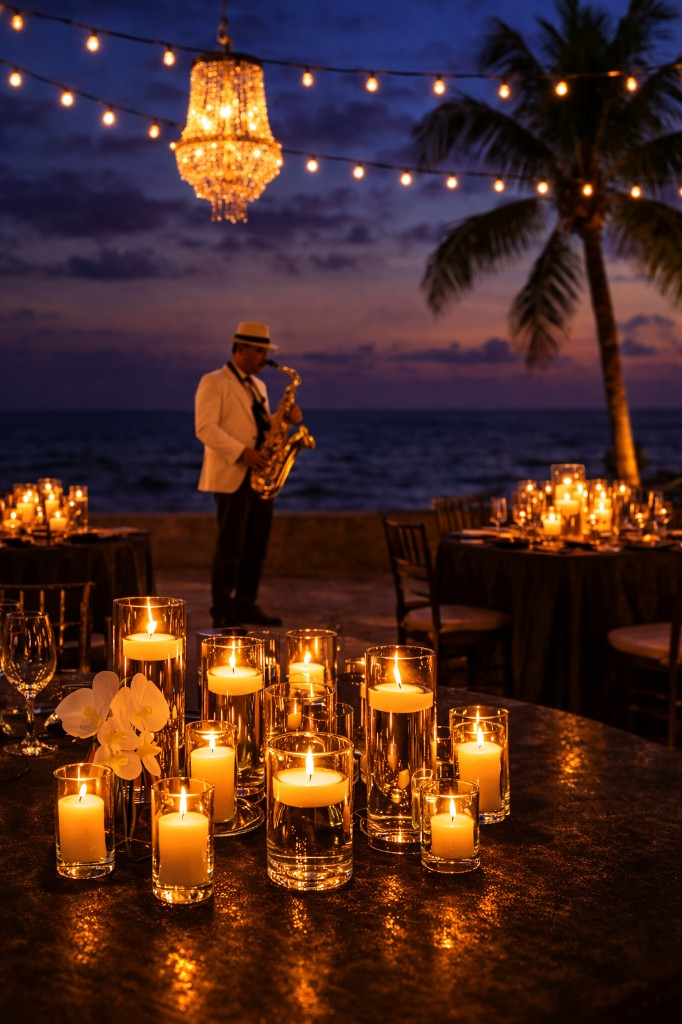
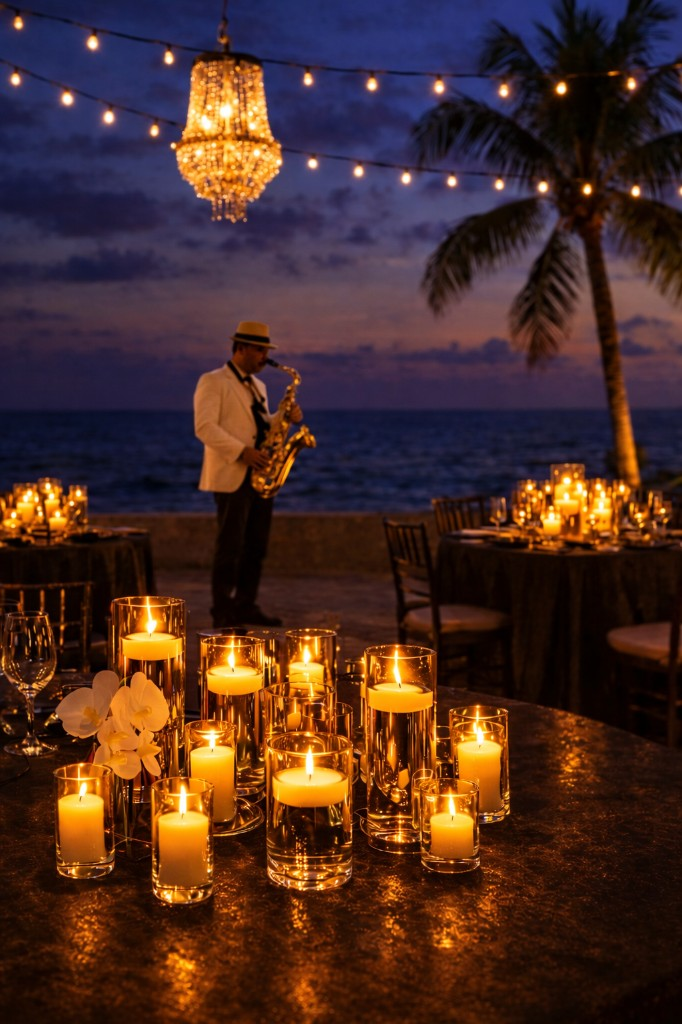
RSVP: Filet Mignon and Grilled Seabass only; UI tweaks; fix SectionDivider menu button types
Made-with: Cursor

diff --git a/packages/frontend/src/sections/RSVPSection.tsx b/packages/frontend/src/sections/RSVPSection.tsx
@@ -23,6 +23,14 @@ const MAX_GUESTS_PARTY = 4
 const TOAST_DURATION_MS = 10_000
 const INPUT_PADDING_LEFT = 2
 
+const RSVP_MEAL_OPTIONS = ['Filet Mignon', 'Grilled Seabass'] as const satisfies readonly RsvpMealChoice[]
+
+const DEFAULT_MEAL_CHOICE: RsvpMealChoice = 'Filet Mignon'
+
+function normalizeMealChoice(raw: string): RsvpMealChoice {
+  return (RSVP_MEAL_OPTIONS as readonly string[]).includes(raw) ? (raw as RsvpMealChoice) : DEFAULT_MEAL_CHOICE
+}
+
 interface RsvpFormData {
   email: string
   phone: string
@@ -41,7 +49,7 @@ const RSVPSection = () => {
     address: '',
     message: '',
     attending: true,
-    mealChoices: ['Fish'],
+    mealChoices: [DEFAULT_MEAL_CHOICE],
   })
   const [storedRsvp, setStoredRsvp] = useState<RsvpResponse | null>(null)
   const [editing, setEditing] = useState(false)
@@ -66,8 +74,10 @@ const RSVPSection = () => {
     const names = rsvp.guestNames?.length ? rsvp.guestNames : rsvp.guests?.map((g) => g.name) ?? ['']
     setGuestNames(names.length ? names : [''])
     const choices =
-      rsvp.guests?.map((g) => g.mealChoice) ??
-      (rsvp.guestNames?.length ? rsvp.guestNames.map(() => 'Fish' as RsvpMealChoice) : ['Fish'])
+      rsvp.guests?.map((g) => normalizeMealChoice(g.mealChoice)) ??
+      (rsvp.guestNames?.length
+        ? rsvp.guestNames.map(() => DEFAULT_MEAL_CHOICE)
+        : [DEFAULT_MEAL_CHOICE])
     setFormData({
       email: rsvp.email,
       phone: rsvp.phone ?? '',
@@ -96,7 +106,7 @@ const RSVPSection = () => {
       if (n > choices.length) {
         return {
           ...prev,
-          mealChoices: [...choices, ...Array(n - choices.length).fill('Fish')] as RsvpMealChoice[],
+          mealChoices: [...choices, ...Array(n - choices.length).fill(DEFAULT_MEAL_CHOICE)],
         }
       }
       return { ...prev, mealChoices: choices.slice(0, n) }
@@ -131,7 +141,7 @@ const RSVPSection = () => {
     }
     const mealChoices = formData.mealChoices.slice(0, numGuests)
     while (mealChoices.length < numGuests) {
-      mealChoices.push('Fish')
+      mealChoices.push(DEFAULT_MEAL_CHOICE)
     }
     const payload = {
       name: names[0],
@@ -235,7 +245,9 @@ const RSVPSection = () => {
             Meal Choices
           </Text>
           <Text color="gray.100">
-            {(rsvp.guests ?? rsvp.guestNames?.map((name) => ({ name, mealChoice: 'Fish' })) ?? [])
+            {(rsvp.guests ??
+              rsvp.guestNames?.map((name) => ({ name, mealChoice: DEFAULT_MEAL_CHOICE })) ??
+              [])
               .map((g) => `${g.name}: ${g.mealChoice}`)
               .join(', ')}
           </Text>
@@ -378,7 +390,7 @@ const RSVPSection = () => {
                           </Field.Label>
                           <NativeSelect.Root size="lg">
                             <NativeSelect.Field
-                              value={formData.mealChoices[index] ?? 'Fish'}
+                              value={formData.mealChoices[index] ?? DEFAULT_MEAL_CHOICE}
                               onChange={(e) =>
                                 setMealChoice(index, e.target.value as RsvpMealChoice)
                               }
@@ -391,9 +403,15 @@ const RSVPSection = () => {
                                 shadow: 'sm',
                               }}
                             >
-                              <option value="Fish" style={{ backgroundColor: '#1F1F1F', color: '#fff' }}>Fish</option>
-                              <option value="Chicken" style={{ backgroundColor: '#1F1F1F', color: '#fff' }}>Chicken</option>
-                              <option value="Steak" style={{ backgroundColor: '#1F1F1F', color: '#fff' }}>Steak</option>
+                              {RSVP_MEAL_OPTIONS.map((option) => (
+                                <option
+                                  key={option}
+                                  value={option}
+                                  style={{ backgroundColor: '#1F1F1F', color: '#fff' }}
+                                >
+                                  {option}
+                                </option>
+                              ))}
                             </NativeSelect.Field>
                             <NativeSelect.Indicator />
                           </NativeSelect.Root>

diff --git a/packages/frontend/src/components/SectionDivider.tsx b/packages/frontend/src/components/SectionDivider.tsx
@@ -1,18 +1,44 @@
-import { Box, HStack } from '@chakra-ui/react'
+import { Box, Button, HStack } from '@chakra-ui/react'
 
 import Monogram from '@/components/Monogram'
 import { weddingColors } from '@/theme/colors'
 
 interface SectionDividerProps {
   py?: { base?: number; md?: number }
+  onLogoClick?: () => void
 }
 
-const SectionDivider = ({ py = { base: 10, md: 14 } }: SectionDividerProps) => {
+const SectionDivider = ({ py = { base: 10, md: 14 }, onLogoClick }: SectionDividerProps) => {
+  const monogram = <Monogram boxSize={{ base: '96px', md: '114px' }} />
+
   return (
     <Box width="100%" bg={weddingColors.charcoal} py={py}>
       <HStack width="100%" maxW="container.lg" marginInline="auto" px={{ base: 4, md: 6 }} gap={4}>
         <Box height="1px" flex={1} bg={weddingColors.primaryGold} opacity={0.35} />
-        <Monogram boxSize={{ base: '96px', md: '114px' }} />
+        {onLogoClick ? (
+          <Button
+            type="button"
+            variant="ghost"
+            onClick={onLogoClick}
+            aria-label="Open menu"
+            display="inline-flex"
+            alignItems="center"
+            justifyContent="center"
+            p={0}
+            h="auto"
+            minW="unset"
+            bg="transparent"
+            color="inherit"
+            outline="none"
+            _hover={{ bg: 'transparent' }}
+            _active={{ bg: 'transparent' }}
+            _focusVisible={{ boxShadow: '0 0 0 3px rgba(232,211,162,0.35)' }}
+          >
+            {monogram}
+          </Button>
+        ) : (
+          monogram
+        )}
         <Box height="1px" flex={1} bg={weddingColors.primaryGold} opacity={0.35} />
       </HStack>
     </Box>

diff --git a/packages/frontend/src/components/NavigationHeader.tsx b/packages/frontend/src/components/NavigationHeader.tsx
@@ -1,5 +1,4 @@
 import { Box, Container, HStack, Link, VStack } from '@chakra-ui/react'
-import { useState } from 'react'
 
 import Monogram from '@/components/Monogram'
 import { weddingColors } from '@/theme/colors'
@@ -23,11 +22,15 @@ const scrollToSection = (targetId: string) => {
   document.getElementById(targetId)?.scrollIntoView({ behavior: 'smooth', block: 'start' })
 }
 
-const NavigationHeader = () => {
-  const [menuOpen, setMenuOpen] = useState(false)
+interface NavigationHeaderProps {
+  menuOpen: boolean
+  onOpenMenu: () => void
+  onCloseMenu: () => void
+}
 
+const NavigationHeader = ({ menuOpen, onOpenMenu, onCloseMenu }: NavigationHeaderProps) => {
   const handleMenuLinkClick = (targetId: string) => {
-    setMenuOpen(false)
+    onCloseMenu()
     scrollToSection(targetId)
   }
 
@@ -48,7 +51,7 @@ const NavigationHeader = () => {
           <HStack height="100%" justify="space-between" gap={6}>
             <Box
               as="button"
-              onClick={() => setMenuOpen(true)}
+              onClick={onOpenMenu}
               aria-label="Open menu"
               display="inline-flex"
               alignItems="center"
@@ -83,7 +86,7 @@ const NavigationHeader = () => {
             position="absolute"
             top={6}
             left={6}
-            onClick={() => setMenuOpen(false)}
+            onClick={onCloseMenu}
             aria-label="Close menu"
             color={weddingColors.menuText}
             fontSize="2xl"

diff --git a/packages/backend/src/rsvp/rsvp.controller.spec.ts b/packages/backend/src/rsvp/rsvp.controller.spec.ts
@@ -17,7 +17,7 @@ function buildPayload(overrides: Partial<CreateRsvpDto> = {}): CreateRsvpDto {
     email: '[email redacted]',
     phone: '[phone redacted]',
     guestNames: ['Karim'],
-    mealChoices: [RsvpMealChoice.FISH],
+    mealChoices: [RsvpMealChoice.FILET_MIGNON],
     address: '123 Wedding Ave',
     message: 'Happy to celebrate',
     attendance: RsvpAttendance.YES,
@@ -25,7 +25,7 @@ function buildPayload(overrides: Partial<CreateRsvpDto> = {}): CreateRsvpDto {
   }
   if (!('mealChoices' in overrides) && 'guestNames' in overrides) {
     const trimmedCount = base.guestNames.map((n) => n.trim()).filter(Boolean).length
-    base.mealChoices = Array(trimmedCount).fill(RsvpMealChoice.FISH)
+    base.mealChoices = Array(trimmedCount).fill(RsvpMealChoice.FILET_MIGNON)
   }
   return base
 }
@@ -96,7 +96,7 @@ describe('RsvpController (e2e)', () => {
           email: '[email redacted]',
           phone: '[phone redacted]',
           guestNames: ['Alice', 'Bob'],
-          mealChoices: [RsvpMealChoice.STEAK, RsvpMealChoice.CHICKEN],
+          mealChoices: [RsvpMealChoice.FILET_MIGNON, RsvpMealChoice.GRILLED_SEABASS],
           address: '456 Test St',
           attendance: RsvpAttendance.YES,
         }),
@@ -117,8 +117,8 @@ describe('RsvpController (e2e)', () => {
     expect(guestsInDb).toHaveLength(2)
     expect(guestsInDb.map((g) => g.name)).toEqual(['Alice', 'Bob'])
     expect(guestsInDb.map((g) => g.mealChoice)).toEqual([
-      RsvpMealChoice.STEAK,
-      RsvpMealChoice.CHICKEN,
+      RsvpMealChoice.FILET_MIGNON,
+      RsvpMealChoice.GRILLED_SEABASS,
     ])
   })
 
@@ -227,7 +227,7 @@ describe('RsvpController (e2e)', () => {
           email: '[email redacted]',
           phone: '[phone redacted]',
           guestNames: [' ', ''],
-          mealChoices: [RsvpMealChoice.FISH],
+          mealChoices: [RsvpMealChoice.FILET_MIGNON],
         }),
       )
       .expect(400)

diff --git a/packages/frontend/src/App.tsx b/packages/frontend/src/App.tsx
@@ -1,4 +1,5 @@
 import { Box } from '@chakra-ui/react'
+import { useState } from 'react'
 
 import NavigationHeader from '@/components/NavigationHeader'
 import SectionDivider from '@/components/SectionDivider'
@@ -17,25 +18,30 @@ import FooterSection from './sections/FooterSection'
 import './App.css'
 
 function App() {
+  const [menuOpen, setMenuOpen] = useState(false)
+
   return (
     <Box width="100%">
       <Toaster />
-      <NavigationHeader />
+      <NavigationHeader menuOpen={menuOpen} onOpenMenu={() => setMenuOpen(true)} onCloseMenu={() => setMenuOpen(false)} />
       <HeroSection />
       <StorySection />
-      <SectionDivider />
+      <SectionDivider onLogoClick={() => setMenuOpen(true)} />
       <ImageSplash
         imageUrl={beachSunset}
         backgroundSize="100% auto"
         backgroundPosition="center 65%"
       />
       <EventSection />
-      <SectionDivider />
+      <SectionDivider onLogoClick={() => setMenuOpen(true)} />
       <ImageSplash imageUrl={familyBaby} />
       <DressCodeSection />
+      <SectionDivider onLogoClick={() => setMenuOpen(true)} />
       <RSVPSection />
+      <SectionDivider onLogoClick={() => setMenuOpen(true)} />
       <ImageSplash imageUrl={santorini} backgroundPosition="center 90%" />
       <TravelSection />
+      <SectionDivider onLogoClick={() => setMenuOpen(true)} />
       <FooterSection />
     </Box>
   )

diff --git a/packages/backend/src/rsvp/rsvp-meal-choice.enum.ts b/packages/backend/src/rsvp/rsvp-meal-choice.enum.ts
@@ -1,5 +1,4 @@
 export enum RsvpMealChoice {
-  STEAK = 'Steak',
-  CHICKEN = 'Chicken',
-  FISH = 'Fish',
+  FILET_MIGNON = 'Filet Mignon',
+  GRILLED_SEABASS = 'Grilled Seabass',
 }

diff --git a/packages/backend/src/rsvp/rsvp.service.ts b/packages/backend/src/rsvp/rsvp.service.ts
@@ -47,7 +47,7 @@ export class RsvpService {
     const guests = trimmedNames.map((name, i) =>
       this.guestRepo.create({
         name,
-        mealChoice: updateRsvpDto.mealChoices[i] ?? RsvpMealChoice.FISH,
+        mealChoice: updateRsvpDto.mealChoices[i] ?? RsvpMealChoice.FILET_MIGNON,
         partyId: party.id,
       }),
     )
@@ -98,7 +98,7 @@ export class RsvpService {
     const guests = trimmedNames.map((name, i) =>
       this.guestRepo.create({
         name,
-        mealChoice: createRsvpDto.mealChoices[i] ?? RsvpMealChoice.FISH,
+        mealChoice: createRsvpDto.mealChoices[i] ?? RsvpMealChoice.FILET_MIGNON,
         partyId: savedParty.id,
       }),
     )

diff --git a/packages/backend/src/rsvp/guest.entity.ts b/packages/backend/src/rsvp/guest.entity.ts
@@ -17,7 +17,7 @@ export class Guest {
   @Column({ type: 'varchar', length: 255 })
   name: string
 
-  @Column({ type: 'enum', enum: RsvpMealChoice, default: RsvpMealChoice.FISH })
+  @Column({ type: 'enum', enum: RsvpMealChoice, default: RsvpMealChoice.FILET_MIGNON })
   mealChoice: RsvpMealChoice
 
   @Column({ type: 'uuid' })

diff --git a/packages/frontend/src/api/rsvp.ts b/packages/frontend/src/api/rsvp.ts
@@ -1,7 +1,7 @@
 import { apiUrl } from './client'
 
 export type RsvpAttendance = 'YES' | 'NO' | 'MAYBE'
-export type RsvpMealChoice = 'Steak' | 'Chicken' | 'Fish'
+export type RsvpMealChoice = 'Filet Mignon' | 'Grilled Seabass'
 
 export interface GuestResponse {
   id: string